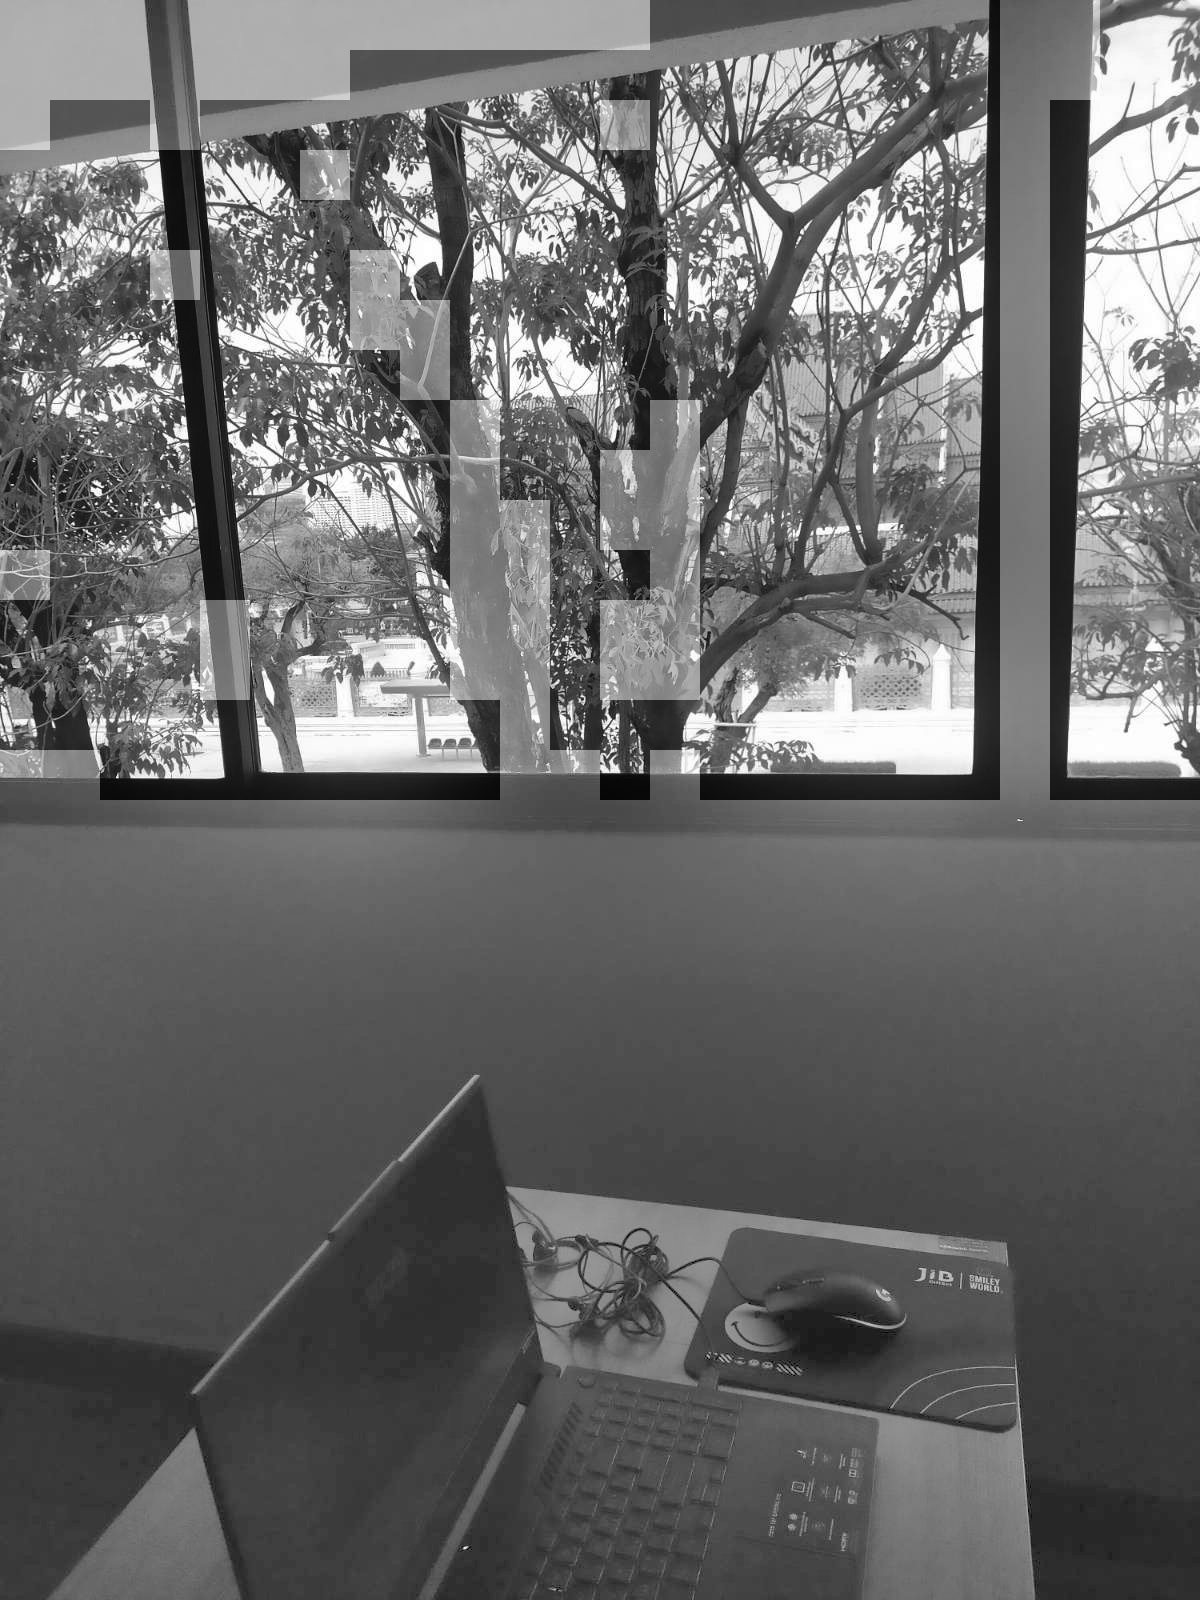
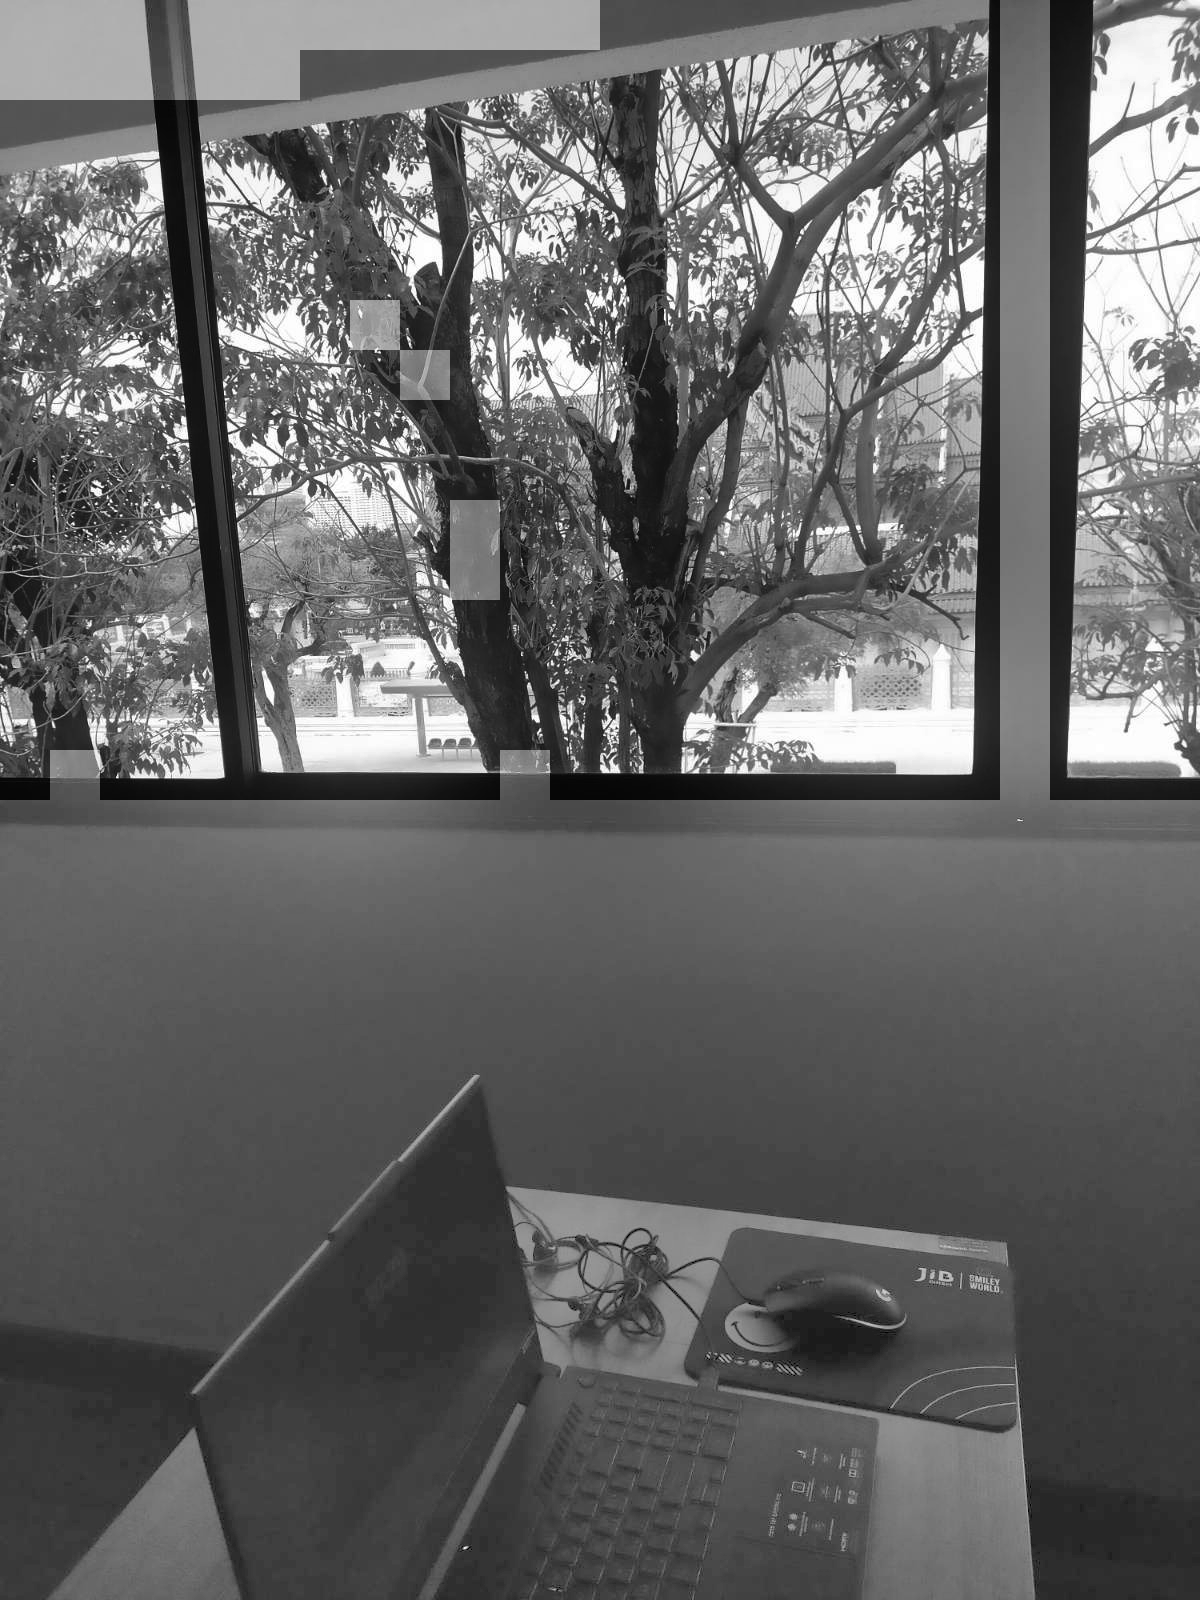
เพิ่มเติม overlap เข้าไป เพื่อให้ครบตามโจทย์

diff --git a/adaptive_gamma_v2.py b/adaptive_gamma_v2.py
@@ -2,7 +2,7 @@ import cv2 as cv
 import numpy as np
 from matplotlib import pyplot as plt
 from power_law import power_law
-
+from image_pad import padding
 
 
 if __name__=="__main__":
@@ -29,7 +29,7 @@ if __name__=="__main__":
             img_ = img[r:r+split_size, c:c+split_size]
             
             ##เเต่งรูปเล็กๆ เเต่ละรูป
-            histrogram = cv.calcHist([img_],[0],None,[256],[128,256])
+            histrogram = cv.calcHist([padding(img_,overlap)],[0],None,[256],[128,256]) #padding นัดไปตรงๆ
             histrogram_mean = histrogram.mean()
             print(histrogram_mean)
             

diff --git a/image_pad.py b/image_pad.py
@@ -3,7 +3,7 @@ import numpy as np
 
 def padding(img,r):
     reflect_img = cv.copyMakeBorder(img,r,r,r,r,cv.BORDER_REFLECT)
-    return reflect_img
+    return  np.array(reflect_img, dtype="uint8")
 
 if __name__ == "__main__":
     img = cv.imread('dif_shade.jpeg')
